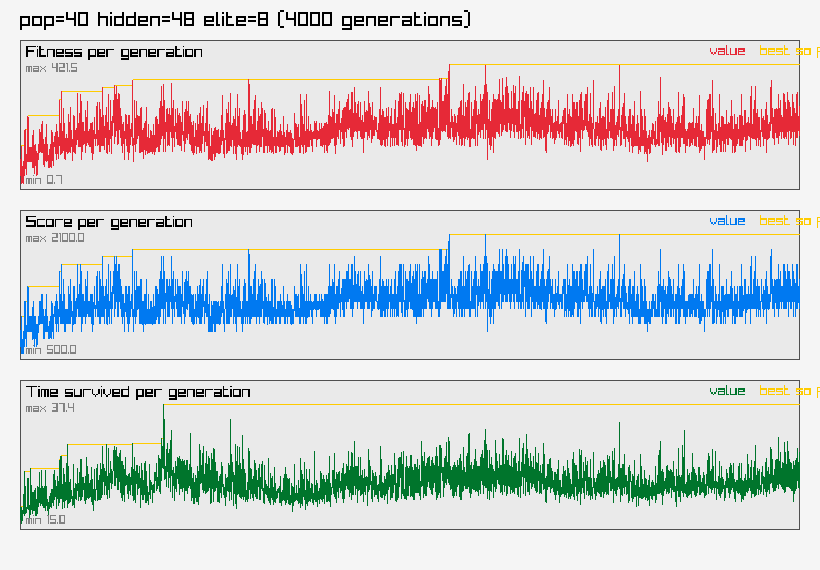
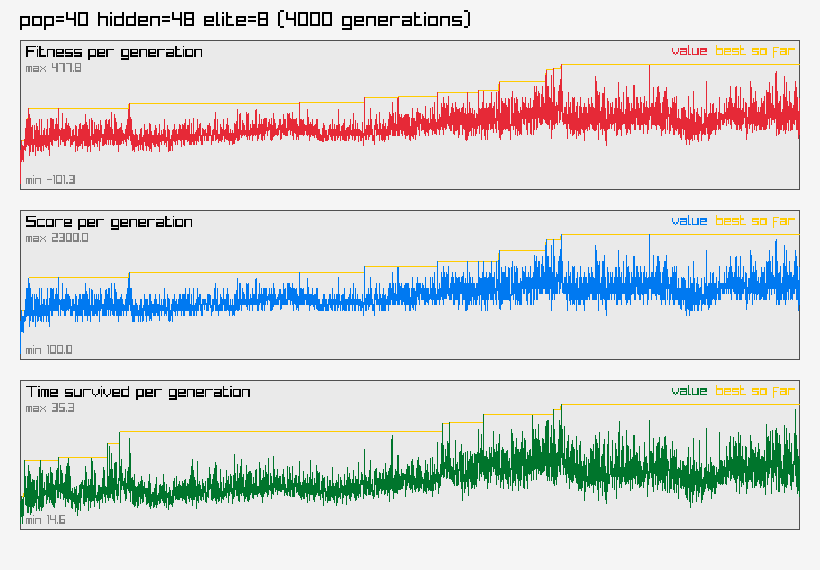
Multithreading and median scores to reduce noise because of randomness

diff --git a/ParameterSweep.cpp b/ParameterSweep.cpp
@@ -8,6 +8,10 @@
 #include <string>
 #include <sstream>
 #include <sys/stat.h>
+#include <thread>
+#include <atomic>
+#include <mutex>
+#include <chrono>
 
 struct SweepConfig
 {
@@ -92,6 +96,65 @@ static Evolution RunSweepConfig(const SweepConfig &config, int generationBudget,
     return evolution;
 }
 
+struct SweepRunResult
+{
+    Evolution evolution;
+    double trainSeconds;
+};
+
+// Runs every config's training on a pool of worker threads (dynamically
+// pulling the next untaken config off a shared counter, since bigger
+// populations take far longer than smaller ones and static split-in-half
+// assignment would leave threads idle). Nothing here touches raylib's
+// rendering/GL calls — SimulateStep and CreateEvolution are plain CPU work —
+// so this stays safe without a window/GL context on the worker threads.
+static void RunConfigsInParallel(const std::vector<SweepConfig> &configs, int generationBudget,
+                                  int screenWidth, int screenHeight, std::vector<SweepRunResult> &results)
+{
+    unsigned int threadCount = std::thread::hardware_concurrency();
+    if (threadCount == 0)
+        threadCount = 1;
+    threadCount = (unsigned int)std::min((size_t)threadCount, configs.size());
+    printf("Running %zu configs across %u worker threads...\n", configs.size(), threadCount);
+
+    std::atomic<size_t> nextIndex{0};
+    std::atomic<size_t> completedCount{0};
+    std::mutex printMutex;
+
+    auto worker = [&]()
+    {
+        size_t i;
+        while ((i = nextIndex.fetch_add(1)) < configs.size())
+        {
+            // steady_clock is a monotonic wall-clock timer, so this measures
+            // real elapsed time for THIS config specifically, regardless of
+            // how many other configs are training concurrently on other
+            // threads — a CPU-time clock would double-count across threads
+            // and misreport how long the batch actually took.
+            auto start = std::chrono::steady_clock::now();
+            Evolution evolution = RunSweepConfig(configs[i], generationBudget, screenWidth, screenHeight);
+            auto end = std::chrono::steady_clock::now();
+
+            results[i].evolution = std::move(evolution);
+            results[i].trainSeconds = std::chrono::duration<double>(end - start).count();
+
+            size_t doneSoFar = completedCount.fetch_add(1) + 1;
+            std::string label = SweepConfigLabel(configs[i]);
+            std::lock_guard<std::mutex> lock(printMutex);
+            printf("[%zu/%zu] %s done in %.1fs bestFitness=%.1f bestScore=%d bestTime=%.1f\n",
+                   doneSoFar, configs.size(), label.c_str(), results[i].trainSeconds,
+                   results[i].evolution.bestFitnessEver, results[i].evolution.bestScoreEver, results[i].evolution.bestTimeEver);
+        }
+    };
+
+    std::vector<std::thread> workers;
+    workers.reserve(threadCount);
+    for (unsigned int t = 0; t < threadCount; t++)
+        workers.emplace_back(worker);
+    for (auto &w : workers)
+        w.join();
+}
+
 void RunParameterSweep(const SweepOptions &options)
 {
     const int screenWidth = 800;
@@ -112,6 +175,15 @@ void RunParameterSweep(const SweepOptions &options)
 
     mkdir(imageDir, 0755);
 
+    // Train every config in parallel first — this is pure CPU work with no
+    // GL calls, so it needs no window at all. The window only gets opened
+    // afterward, for the (GL-only-safe-on-one-thread) image export pass.
+    auto sweepStart = std::chrono::steady_clock::now();
+    std::vector<SweepRunResult> results(configs.size());
+    RunConfigsInParallel(configs, generationBudget, screenWidth, screenHeight, results);
+    double totalSweepSeconds = std::chrono::duration<double>(std::chrono::steady_clock::now() - sweepStart).count();
+    printf("All configs trained in %.1fs total (wall clock)\n", totalSweepSeconds);
+
     // A hidden window is still needed for the offscreen render texture used
     // to export graph images — nothing is ever actually shown.
     SetConfigFlags(FLAG_WINDOW_HIDDEN);
@@ -125,8 +197,8 @@ void RunParameterSweep(const SweepOptions &options)
         CloseWindow();
         return;
     }
-    fprintf(out, "%-6s %-6s %-6s %-8s %-8s | %-9s %-10s %-9s %-10s\n",
-            "pop", "hidden", "elite", "mutRate", "mutStr", "gens", "bestFit", "bestScr", "bestTime");
+    fprintf(out, "%-6s %-6s %-6s %-8s %-8s | %-9s %-10s %-9s %-10s %-10s\n",
+            "pop", "hidden", "elite", "mutRate", "mutStr", "gens", "bestFit", "bestScr", "bestTime", "trainSec");
     fflush(out);
 
     struct ReadmeRow
@@ -137,27 +209,23 @@ void RunParameterSweep(const SweepOptions &options)
         float bestFitnessEver;
         int bestScoreEver;
         float bestTimeEver;
+        double trainSeconds;
     };
     std::vector<ReadmeRow> readmeRows;
 
     for (size_t i = 0; i < configs.size(); i++)
     {
         const SweepConfig &config = configs[i];
+        const Evolution &evolution = results[i].evolution;
+        double trainSeconds = results[i].trainSeconds;
         std::string label = SweepConfigLabel(config);
-        printf("[%zu/%zu] %s (elite=%d) running %d generations... ", i + 1, configs.size(),
-               label.c_str(), config.eliteCount, generationBudget);
-        fflush(stdout);
-
-        Evolution evolution = RunSweepConfig(config, generationBudget, screenWidth, screenHeight);
         int generationsCompleted = evolution.generation - 1;
 
-        printf("bestFitness=%.1f bestScore=%d bestTime=%.1f\n",
-               evolution.bestFitnessEver, evolution.bestScoreEver, evolution.bestTimeEver);
-
-        fprintf(out, "%-6d %-6d %-6d %-8.2f %-8.2f | %-9d %-10.1f %-9d %-10.1f\n",
+        fprintf(out, "%-6d %-6d %-6d %-8.2f %-8.2f | %-9d %-10.1f %-9d %-10.1f %-10.1f\n",
                 config.populationSize, config.hiddenSize, config.eliteCount,
                 config.mutationRate, config.mutationStrength,
-                generationsCompleted, evolution.bestFitnessEver, evolution.bestScoreEver, evolution.bestTimeEver);
+                generationsCompleted, evolution.bestFitnessEver, evolution.bestScoreEver, evolution.bestTimeEver,
+                trainSeconds);
         fflush(out);
 
         std::string imagePath = std::string(imageDir) + "/" + label + ".png";
@@ -168,7 +236,7 @@ void RunParameterSweep(const SweepOptions &options)
         ExportGenerationHistoryImage(evolution, title.c_str(), imagePath.c_str());
 
         readmeRows.push_back({config, imagePath, generationsCompleted,
-                               evolution.bestFitnessEver, evolution.bestScoreEver, evolution.bestTimeEver});
+                               evolution.bestFitnessEver, evolution.bestScoreEver, evolution.bestTimeEver, trainSeconds});
     }
 
     fclose(out);
@@ -193,13 +261,16 @@ void RunParameterSweep(const SweepOptions &options)
             fprintf(readme, "%s%d", i == 0 ? "" : ",", options.hiddenSizes[i]);
         fprintf(readme, "] eliteRatio=%.2f mutationRate=%.2f mutationStrength=%.2f\n\n",
                 options.eliteRatio, options.mutationRate, options.mutationStrength);
-        fprintf(readme, "| Population | Hidden | Elites | Generations | Best Fitness | Best Score | Best Time |\n");
-        fprintf(readme, "|---|---|---|---|---|---|---|\n");
+        fprintf(readme, "Trained in %.1fs total (wall clock, running configs in parallel across CPU threads).\n\n",
+                totalSweepSeconds);
+        fprintf(readme, "| Population | Hidden | Elites | Generations | Best Fitness | Best Score | Best Time | Train Time (s) |\n");
+        fprintf(readme, "|---|---|---|---|---|---|---|---|\n");
         for (const auto &row : readmeRows)
         {
-            fprintf(readme, "| %d | %d | %d | %d | %.1f | %d | %.1f |\n",
+            fprintf(readme, "| %d | %d | %d | %d | %.1f | %d | %.1f | %.1f |\n",
                     row.config.populationSize, row.config.hiddenSize, row.config.eliteCount,
-                    row.generationsCompleted, row.bestFitnessEver, row.bestScoreEver, row.bestTimeEver);
+                    row.generationsCompleted, row.bestFitnessEver, row.bestScoreEver, row.bestTimeEver,
+                    row.trainSeconds);
         }
         fprintf(readme, "\n");
         for (const auto &row : readmeRows)

diff --git a/Enemy.cpp b/Enemy.cpp
@@ -1,4 +1,5 @@
 #include "Enemy.h"
+#include "RandomUtil.h"
 #include <cmath>
 
 Enemy SpawnEnemy(int screenWidth, int screenHeight, float size, float speed, int maxHealth)
@@ -11,20 +12,20 @@ Enemy SpawnEnemy(int screenWidth, int screenHeight, float size, float speed, int
     enemy.active = true;
 
     // Spawn at a random position just outside one of the four screen edges
-    int side = GetRandomValue(0, 3); // 0=top, 1=bottom, 2=left, 3=right
+    int side = RandomInt(0, 3); // 0=top, 1=bottom, 2=left, 3=right
     switch (side)
     {
     case 0:
-        enemy.position = {(float)GetRandomValue(0, screenWidth - (int)size), -size};
+        enemy.position = {(float)RandomInt(0, screenWidth - (int)size), -size};
         break;
     case 1:
-        enemy.position = {(float)GetRandomValue(0, screenWidth - (int)size), (float)screenHeight};
+        enemy.position = {(float)RandomInt(0, screenWidth - (int)size), (float)screenHeight};
         break;
     case 2:
-        enemy.position = {-size, (float)GetRandomValue(0, screenHeight - (int)size)};
+        enemy.position = {-size, (float)RandomInt(0, screenHeight - (int)size)};
         break;
     default:
-        enemy.position = {(float)screenWidth, (float)GetRandomValue(0, screenHeight - (int)size)};
+        enemy.position = {(float)screenWidth, (float)RandomInt(0, screenHeight - (int)size)};
         break;
     }
     return enemy;

diff --git a/Evolution.cpp b/Evolution.cpp
@@ -1,5 +1,6 @@
 #include "Evolution.h"
 #include "raylib.h"
+#include "RandomUtil.h"
 #include <algorithm>
 #include <numeric>
 #include <cstdio>
@@ -8,7 +9,7 @@
 namespace
 {
     const uint32_t SAVE_MAGIC = 0x4C4F5645; // 'EVOL'
-    const uint32_t SAVE_VERSION = 6;        // v6: sweep-informed defaults: population 40->60, elites 8->12, hidden layer 24->12
+    const uint32_t SAVE_VERSION = 7;        // v7: 16-config sweep winner: population 60->80, elites 12->16, hidden layer 12->36
 
     template <typename T>
     void WriteValue(FILE *file, const T &value)
@@ -151,7 +152,7 @@ static void EvolvePopulation(Evolution &evo)
     float mutationRate = std::min(evo.mutationRate * stagnationBoost, 0.5f);
     while ((int)nextGeneration.size() < evo.populationSize)
     {
-        int parentIndex = order[GetRandomValue(0, evo.eliteCount - 1)];
+        int parentIndex = order[RandomInt(0, evo.eliteCount - 1)];
         bool exploratory = (nextGeneration.size() % 2) == 0;
         float strength = (exploratory ? evo.mutationStrength * 4.0f : evo.mutationStrength) * stagnationBoost;
         nextGeneration.push_back(MutateNetwork(evo.population[parentIndex], mutationRate, strength));

diff --git a/HistoryGraph.cpp b/HistoryGraph.cpp
@@ -12,8 +12,18 @@ void DrawHistoryGraph(Rectangle area, const std::vector<float> &history, const c
     DrawRectangleRec(area, Fade(BLACK, 0.05f));
     DrawRectangleLinesEx(area, 1, DARKGRAY);
     DrawText(label, (int)area.x + 6, (int)area.y + 4, 16, BLACK);
-    DrawText("value", (int)area.x + area.width - 90, (int)area.y + 4, 14, color);
-    DrawText("best so far", (int)area.x + area.width - 40, (int)area.y + 4, 14, maxColor);
+
+    // Right-align both legend labels using their actual measured width, so
+    // "best so far" (the longer string) never overflows past the panel edge.
+    const int legendFontSize = 14;
+    const int legendGap = 10;
+    const int legendMargin = 6;
+    int bestLabelWidth = MeasureText("best so far", legendFontSize);
+    int valueLabelWidth = MeasureText("value", legendFontSize);
+    int bestX = (int)(area.x + area.width) - legendMargin - bestLabelWidth;
+    int valueX = bestX - legendGap - valueLabelWidth;
+    DrawText("value", valueX, (int)area.y + 4, legendFontSize, color);
+    DrawText("best so far", bestX, (int)area.y + 4, legendFontSize, maxColor);
 
     if (history.size() < 2)
     {

diff --git a/Simulation.h b/Simulation.h
@@ -56,13 +56,12 @@ static const float REWARD_PER_KILL = 20.0f;
 static const float REWARD_DEATH_PENALTY = 30.0f;
 
 // --- Evolution config (interactive-play defaults; the sweep overrides these) ---
-// pop=60/hidden=12 was the empirical winner of a 6-config sweep (see
-// README.md) — a bigger hidden layer roughly doubles the weight count, which
-// made the mutation-only search plateau hard within a few hundred
-// generations, while more population kept improving throughout.
-static const int POPULATION_SIZE = 60;
-static const int HIDDEN_SIZE = 12;
-static const int ELITE_COUNT = 12;
+// pop=80/hidden=36 was the empirical winner of a 16-config sweep (see
+// README.md): best fitness 3735.7, best score 14700, best time 200.4s —
+// clear of every other combination tried.
+static const int POPULATION_SIZE = 80;
+static const int HIDDEN_SIZE = 36;
+static const int ELITE_COUNT = 16;
 static const float MUTATION_RATE = 0.15f;
 static const float MUTATION_STRENGTH = 0.5f;
 

diff --git a/RandomUtil.h b/RandomUtil.h
@@ -1,0 +1,17 @@
+#pragma once
+#include <random>
+
+// Thread-local RNG: each thread gets its own independent generator, so
+// concurrent callers (e.g. the parameter sweep running configs in parallel)
+// never touch shared mutable RNG state and need no locking.
+inline std::mt19937 &RandomEngine()
+{
+    thread_local std::mt19937 engine(std::random_device{}());
+    return engine;
+}
+
+inline int RandomInt(int minValue, int maxValue)
+{
+    std::uniform_int_distribution<int> dist(minValue, maxValue);
+    return dist(RandomEngine());
+}

diff --git a/NeuralNetwork.cpp b/NeuralNetwork.cpp
@@ -1,15 +1,10 @@
 #include "NeuralNetwork.h"
+#include "RandomUtil.h"
 #include <cmath>
 #include <random>
 
 namespace
 {
-    std::mt19937 &RandomEngine()
-    {
-        static std::mt19937 engine(std::random_device{}());
-        return engine;
-    }
-
     int WeightCount(int inputSize, int hiddenSize, int outputSize)
     {
         return inputSize * hiddenSize + hiddenSize + hiddenSize * outputSize + outputSize;

diff --git a/README.md b/README.md
@@ -9,24 +9,26 @@ make sweep  # run this parameter sweep (override with ARGS="--populations=20,40 
 
 Each configuration below trained for 4000 generations. populations=[20,40,60,80] hidden=[12,24,36,48] eliteRatio=0.20 mutationRate=0.15 mutationStrength=0.50
 
-| Population | Hidden | Elites | Generations | Best Fitness | Best Score | Best Time |
-|---|---|---|---|---|---|---|
-| 20 | 12 | 4 | 4000 | 505.9 | 2400 | 40.3 |
-| 20 | 24 | 4 | 4000 | 445.7 | 2200 | 35.0 |
-| 20 | 36 | 4 | 4000 | 455.7 | 2200 | 44.3 |
-| 20 | 48 | 4 | 4000 | 534.1 | 2500 | 47.0 |
-| 40 | 12 | 8 | 4000 | 971.0 | 4200 | 65.3 |
-| 40 | 24 | 8 | 4000 | 1191.7 | 5000 | 83.9 |
-| 40 | 36 | 8 | 4000 | 602.1 | 2800 | 61.5 |
-| 40 | 48 | 8 | 4000 | 421.5 | 2100 | 37.4 |
-| 60 | 12 | 12 | 4000 | 864.7 | 3800 | 53.3 |
-| 60 | 24 | 12 | 4000 | 1354.6 | 5600 | 99.8 |
-| 60 | 36 | 12 | 4000 | 1340.2 | 5500 | 89.3 |
-| 60 | 48 | 12 | 4000 | 1073.3 | 4600 | 64.4 |
-| 80 | 12 | 16 | 4000 | 1146.0 | 4800 | 79.3 |
-| 80 | 24 | 16 | 4000 | 2631.4 | 10400 | 161.2 |
-| 80 | 36 | 16 | 4000 | 3735.7 | 14700 | 200.4 |
-| 80 | 48 | 16 | 4000 | 2825.1 | 11300 | 145.8 |
+Trained in 873.7s total (wall clock, running configs in parallel across CPU threads).
+
+| Population | Hidden | Elites | Generations | Best Fitness | Best Score | Best Time | Train Time (s) |
+|---|---|---|---|---|---|---|---|
+| 20 | 12 | 4 | 4000 | 341.5 | 1800 | 30.4 | 46.4 |
+| 20 | 24 | 4 | 4000 | 369.4 | 1900 | 35.0 | 55.2 |
+| 20 | 36 | 4 | 4000 | 343.4 | 1800 | 30.3 | 64.1 |
+| 20 | 48 | 4 | 4000 | 552.1 | 2600 | 41.5 | 83.1 |
+| 40 | 12 | 8 | 4000 | 1725.1 | 7000 | 104.7 | 362.0 |
+| 40 | 24 | 8 | 4000 | 395.5 | 2000 | 31.7 | 113.9 |
+| 40 | 36 | 8 | 4000 | 652.1 | 3000 | 41.4 | 141.8 |
+| 40 | 48 | 8 | 4000 | 477.8 | 2300 | 35.3 | 163.5 |
+| 60 | 12 | 12 | 4000 | 1756.9 | 7200 | 104.2 | 284.2 |
+| 60 | 24 | 12 | 4000 | 1490.3 | 6200 | 89.4 | 365.7 |
+| 60 | 36 | 12 | 4000 | 997.0 | 4300 | 58.5 | 269.7 |
+| 60 | 48 | 12 | 4000 | 870.6 | 3800 | 52.3 | 282.4 |
+| 80 | 12 | 16 | 4000 | 3463.1 | 13600 | 188.9 | 554.6 |
+| 80 | 24 | 16 | 4000 | 812.7 | 3600 | 53.2 | 264.6 |
+| 80 | 36 | 16 | 4000 | 1490.2 | 6200 | 84.2 | 431.4 |
+| 80 | 48 | 16 | 4000 | 2487.0 | 9900 | 140.7 | 543.1 |
 
 ## pop20_hidden12
 

diff --git a/ARCHITECTURE.md b/ARCHITECTURE.md
@@ -1,0 +1,34 @@
+# Architecture
+
+## Stack
+
+- C++17, raylib for window/input/drawing/shapes
+- CMake, Makefile wrapper (`make dev`, `make sweep`)
+- no ML libraries. neural net and genetic algorithm are both hand-rolled
+- std::thread for the sweep, nothing else external
+
+## Files
+
+**main.cpp** — entry point. picks `--sweep` or the interactive loop. owns the window, HUD, speed button, autosave timing.
+
+**Simulation.h/.cpp** — all the game constants (player/bullet/enemy/reward/evolution defaults) and `SimulateStep`, one game tick: movement, shooting, collisions, reward, episode end. Used by both interactive play and the sweep.
+
+**Player.h/.cpp, Enemy.h/.cpp** — plain structs + free functions, no classes. position, health, collision boxes, drawing.
+
+**NeuralNetwork.h/.cpp** — tiny feedforward net, input → hidden (tanh) → output. the genome is just the weight vector.
+
+**PlayerAgent.h/.cpp** — glue between game state and the network. builds the input vector (player + 4 nearest enemies), decodes outputs into move/aim/shoot.
+
+**Evolution.h/.cpp** — population, generations, elitism + mutation, stagnation-triggered mutation boost. save/load to `save.dat` — versioned, deliberately refuses to load a file with the wrong shape.
+
+**HistoryGraph.h/.cpp** — the fitness/score/time line graphs. same drawing code renders the in-game Tab overlay and the sweep's exported PNGs.
+
+**ParameterSweep.h/.cpp** — `--sweep` mode. CLI flag parsing, runs configs across worker threads, writes `sweep_results.txt` + `README.md` + `sweep_images/`.
+
+**RandomUtil.h** — thread-local RNG. exists because the sweep runs configs in parallel and raylib's `GetRandomValue` isn't thread-safe.
+
+## Why it's split this way
+
+- `SimulateStep` doesn't know or care if anyone's watching — same function runs live in the window at 1x-49152x speed, or headless on a sweep thread.
+- game logic never calls raylib drawing functions, only `CheckCollisionRecs` (pure math, safe off the main thread).
+- sweep training runs fully parallel with no window at all. the window only opens afterward, on the main thread, to export PNGs — raylib's GL calls aren't thread-safe so that part has to stay single-threaded.
